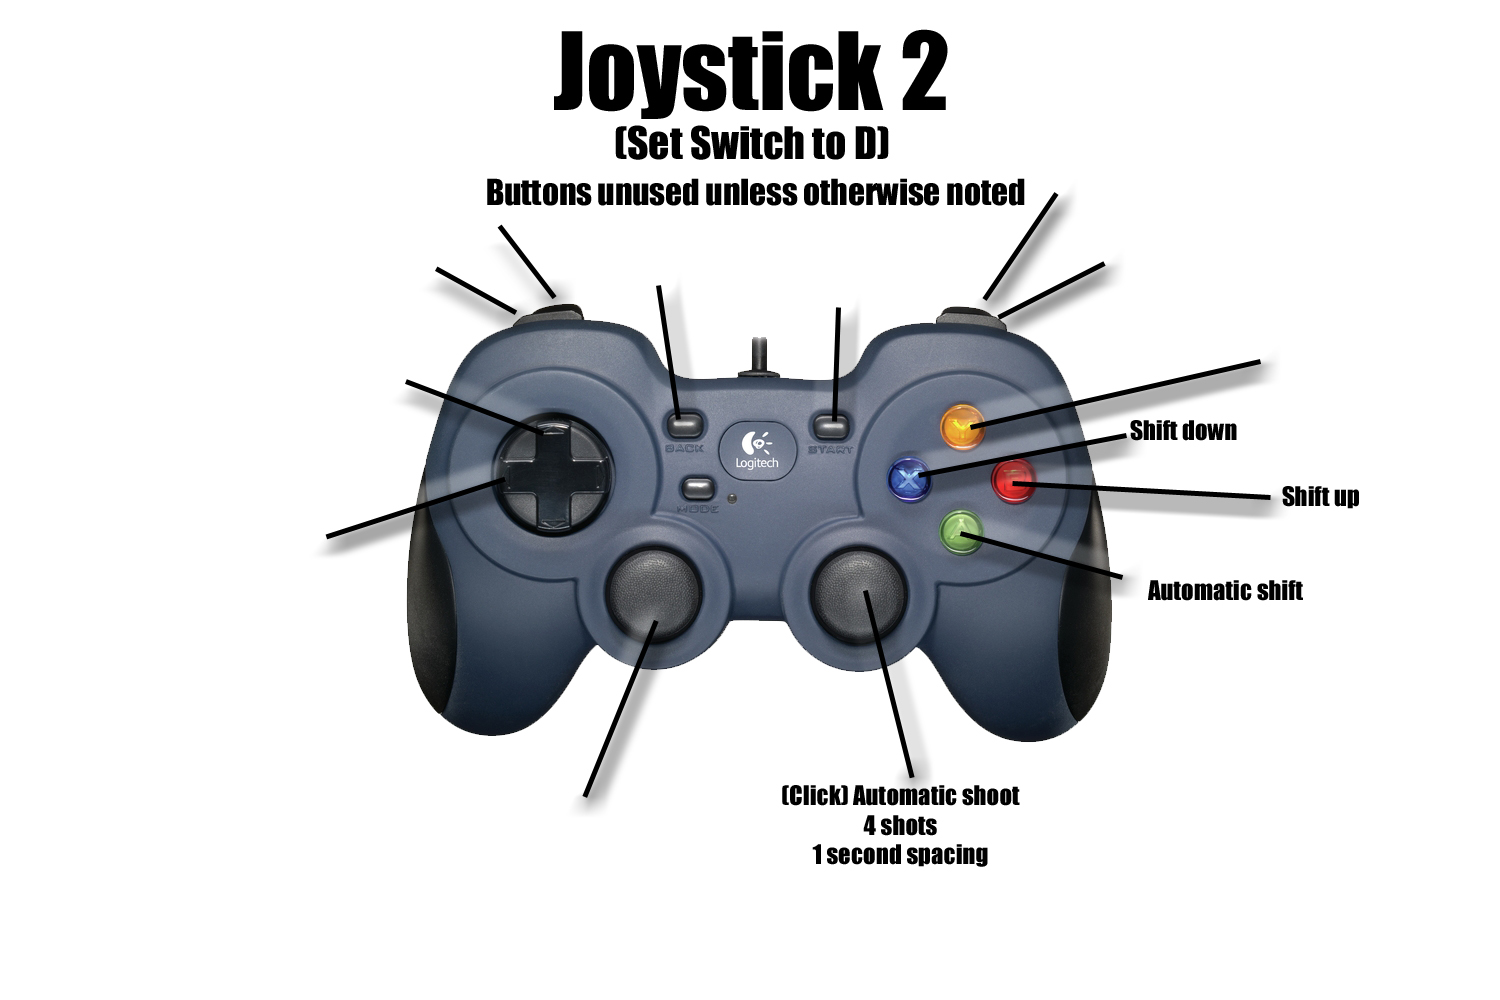
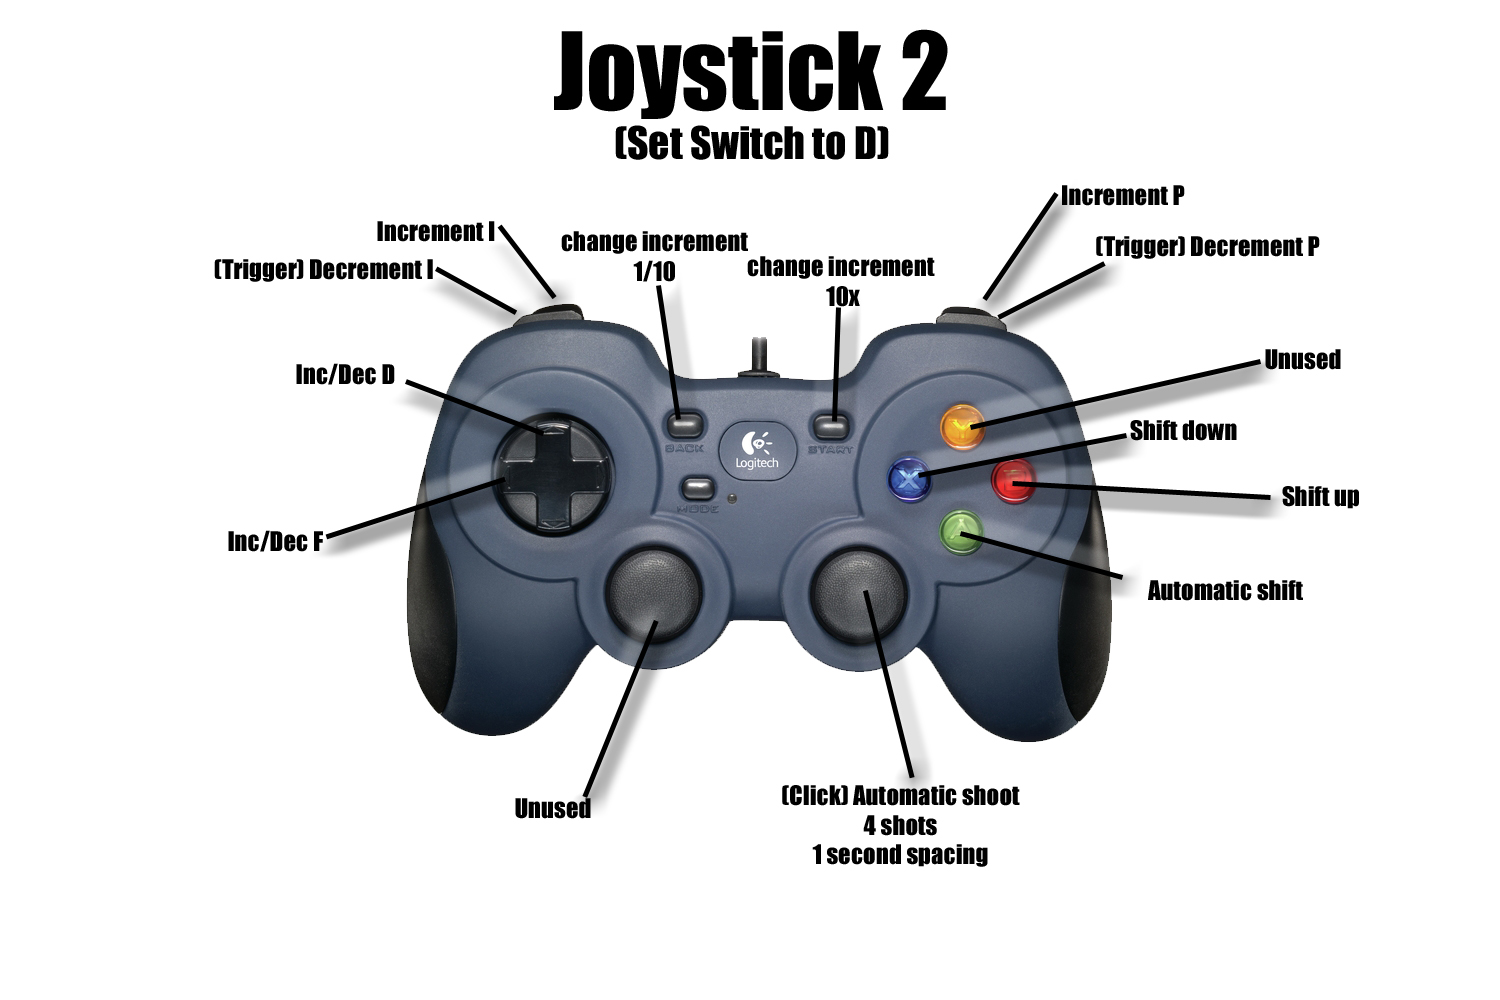
Added PIDTune.java to tune any PID Controller we want easily with the second joystick. Updated button map images correspondingly. Note: In order to tune drivetrain velocity PID, this class must be changed to use DiscoPIDController.

diff --git a/FIRST/2013/Java/Ascension/src/disco/commands/PIDTune.java b/FIRST/2013/Java/Ascension/src/disco/commands/PIDTune.java
@@ -1,0 +1,114 @@
+/*
+ * To change this template, choose Tools | Templates
+ * and open the template in the editor.
+ */
+package disco.commands;
+
+import disco.utils.GamePad;
+import edu.wpi.first.wpilibj.PIDController;
+import edu.wpi.first.wpilibj.smartdashboard.SmartDashboard;
+
+/*
+ * Use this class to tune any PID!
+ * just tell it which PIDController, and watch it work like magic!
+ */
+public class PIDTune extends CommandBase {
+    private PIDController c;
+    private String name;
+    private double P=0,I=0,D=0,F=0;
+    private double inc=0.001;
+    private GamePad gp;
+
+    public PIDTune(PIDController control, String name) {
+	c=control;
+	this.name=name;
+	gp=(GamePad) oi.getJoy2();
+    }
+
+    // Called just before this Command runs the first time
+    protected void initialize() {
+	P=c.getP();
+	I=c.getI();
+	D=c.getD();
+	F=c.getF();
+	inc=0.001;
+    }
+
+    // Called repeatedly when this Command is scheduled to run
+    protected void execute() {
+	//PPPPPPPPPPPPPPPPPPPPPPPPPPPPPPPPP
+	if(gp.getRawButton(gp.BUMPER_R)){
+	    P+=inc;
+	}
+	else if(gp.getRawButton(gp.TRIGGER_R)){
+	    P-=inc;
+	}
+
+	//IIIIIIIIIIIIIIIIIIIIIIIIIIIIIIIII
+	if(gp.getRawButton(gp.BUMPER_L)){
+	    I+=inc;
+	}
+	else if(gp.getRawButton(gp.TRIGGER_L)){
+	    I-=inc;
+	}
+
+	//DDDDDDDDDDDDDDDDDDDDDDDDDDDDDDDDD
+	if(gp.getRawAxis(gp.DPAD_Y)>0.7){
+	    D+=inc;
+	}
+	else if(gp.getRawAxis(gp.DPAD_Y)<-0.7){
+	    D-=inc;
+	}
+
+	//FFFFFFFFFFFFFFFFFFFFFFFFFFFFFFFFF
+	if(gp.getRawAxis(gp.DPAD_X)>0.7){
+	    F+=inc;
+	}
+	else if(gp.getRawAxis(gp.DPAD_X)<-0.7){
+	    F-=inc;
+	}
+
+	//incincincincincincincincincincinc
+	if(gp.getRawButton(gp.BTN_START)){
+	    inc*=10;
+	}
+	else if(gp.getRawButton(gp.BTN_BACK)){
+	    inc/=10;
+	}
+
+	c.setPID(P, I, D, F);
+	SmartDashboard.putString("TuningName", name);
+	SmartDashboard.putString("P", strRound6(P));
+	SmartDashboard.putString("I", strRound6(I));
+	SmartDashboard.putString("D", strRound6(D));
+	SmartDashboard.putString("F", strRound6(F));
+	SmartDashboard.putString("inc", strRound6(inc));
+    }
+
+    // Make this return true when this Command no longer needs to run execute()
+    protected boolean isFinished() {
+        return false;
+    }
+
+    // Called once after isFinished returns true
+    protected void end() {
+    }
+
+    // Called when another command which requires one or more of the same
+    // subsystems is scheduled to run
+    protected void interrupted() {
+	end();
+    }
+
+
+    //Truncate to 6 decimal places and format as a string
+    private String strRound6(double in){
+	if(in==0){
+	    return String.valueOf(0);
+	}
+	in*=1000000;
+	String mid = String.valueOf((int) in);
+	int len=mid.length();
+	return mid.substring(0, len-6)+"."+mid.substring(len-6, len);
+    }
+}

diff --git a/FIRST/2013/Java/Ascension/src/disco/utils/BetterDrive.java b/FIRST/2013/Java/Ascension/src/disco/utils/BetterDrive.java
@@ -7,11 +7,11 @@ public class BetterDrive extends RobotDrive {
     double leftPrev=0;
     double rightPrev=0;
     double m_rampLimit=0.18;
-    
+
     public BetterDrive(SpeedController a, SpeedController b,
             SpeedController c, SpeedController d) {
         super(a,b,c,d);
-        
+
         leftPrev=0;
         rightPrev=0;
     }
@@ -19,9 +19,10 @@ public class BetterDrive extends RobotDrive {
     private double Map(double stickVal){
 	double x=10.0*stickVal;
 	//the secret formula
-	return 0.024 + 0.296*x - 0.085*x*x + 0.011*x*x*x - 0.000447*x*x*x*x;
+	//return 0.024 + 0.296*x - 0.085*x*x + 0.011*x*x*x - 0.000447*x*x*x*x;
+	return 0.308*x + 0.0327*x*x*x + 0.000113*x*x*x*x*x - 0.147*x*x - 0.00314*x*x*x*x;
     }
-    
+
     public void tankDrive(double leftValue, double rightValue, boolean smoothed){
         tankDrive(leftValue,rightValue,smoothed,false);
     }
@@ -35,7 +36,7 @@ public class BetterDrive extends RobotDrive {
 	    leftValue=leftSign*Map(Math.abs(leftValue));
 	    rightValue=rightSign*Map(Math.abs(rightValue));
 	}
-        
+
         if(ramp){
             if(leftValue-leftPrev>m_rampLimit){
                 leftValue=leftPrev+m_rampLimit;
@@ -50,7 +51,7 @@ public class BetterDrive extends RobotDrive {
                 rightValue=rightPrev-m_rampLimit;
             }
         }
-                
+
         leftPrev=leftValue;
         rightPrev=rightValue;
 	super.tankDrive(leftValue, rightValue, false);
